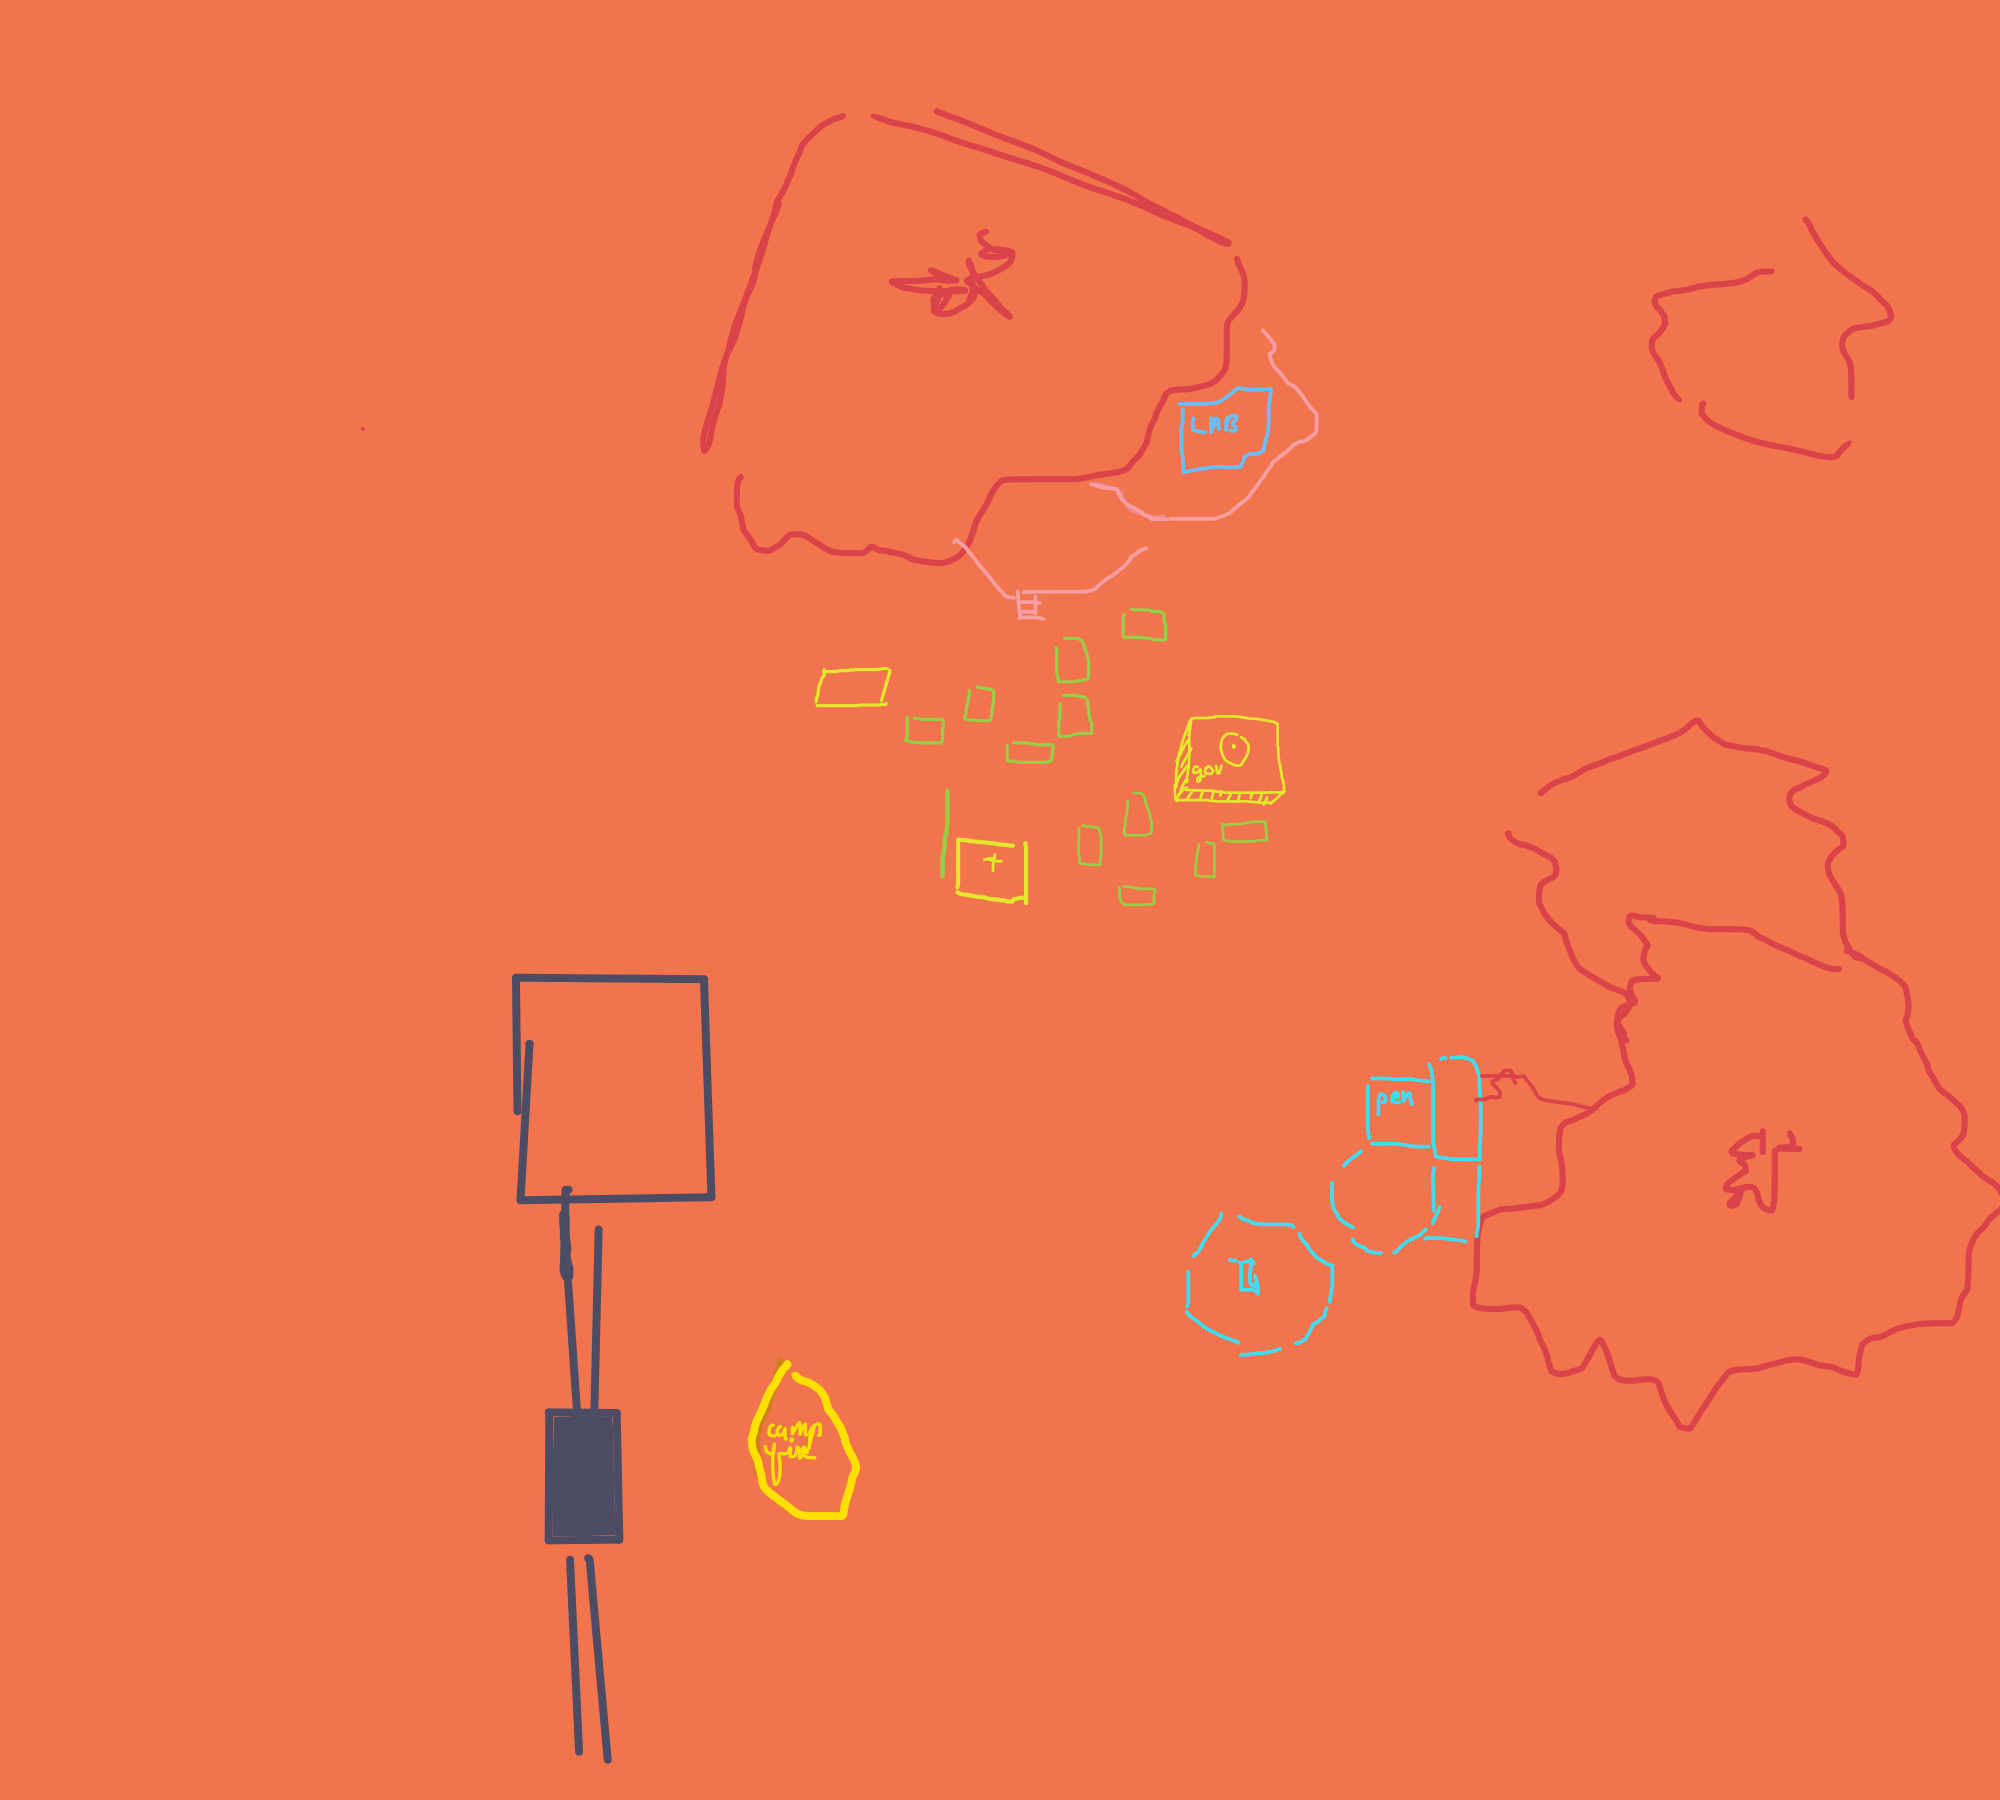
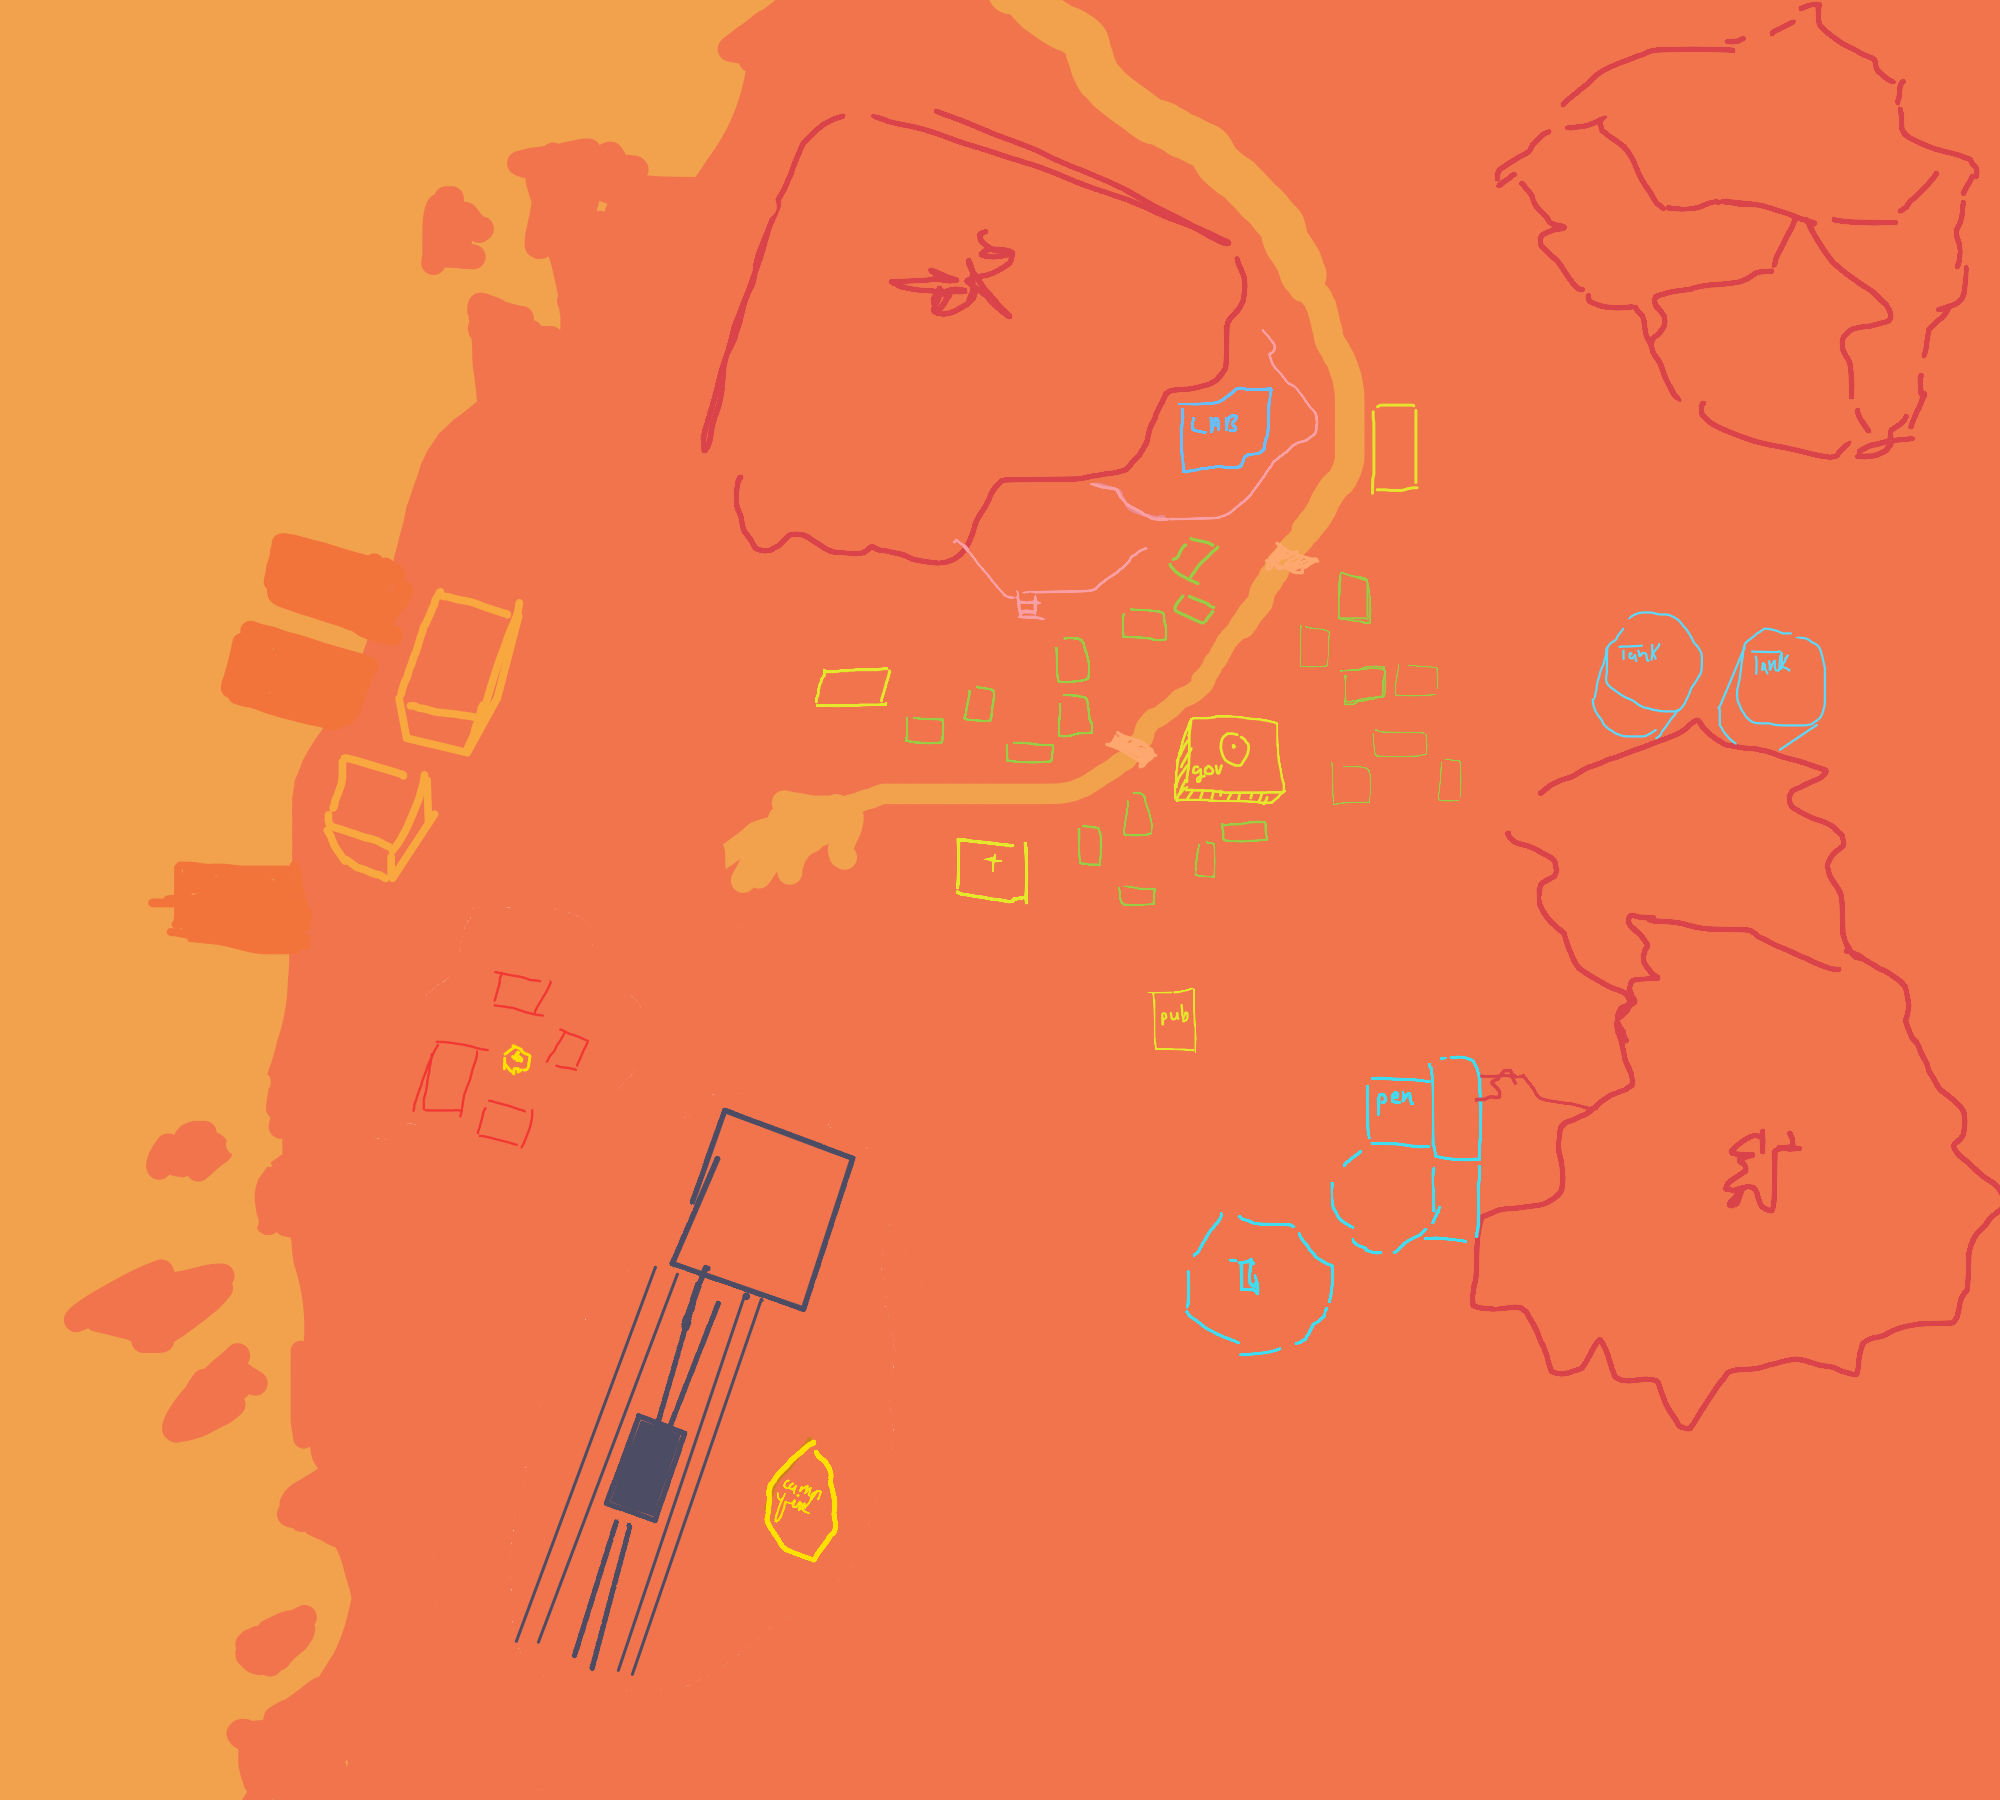
Some changes

diff --git a/Games/Nubiota.md b/Games/Nubiota.md
@@ -15,10 +15,57 @@ But a day in, you realize that a disease is spreading, this disease is
 characterized by the blackening of the veins and degenerates your brain
 to think abnormally and behave hostile and mindless.
 
+East of the town is a coast line, and there are fishing docks and sheds.
+There is a hospital, a pub, a government building for printing money and 
+deciding laws and policies between the two governers of the town, a farming
+area used for farming sheep, cattle and other animals, two rainwater tanks,
+and a lab.
+The town is situated between a mountain range, with three prominent
+mountains, one is north-west, one is south-west, and the last is north-east.
+There is a river flowing through the town that comes from the north and
+meanders to the west stopping half-way before it reaches the coast.
+There is also some ruins south of the docks, which have been turned into 
+homes and a base of operations for a gang.
+And there is a train-station to the south-west, from which the town sends
+meat, animal products and other goods for things that the town can't make,
+like concrete, wood, and such. But the trains have stopped and crashed.
+Guards roam the town to stop crime, they work under the 1st governer, 
+and get paid for it.
+Two architects live in the town, they're employed by a family, who are an 
+authority on the architecture and construction. The architects have very
+opposing views.
 
+## Day 1
 
-A gang tries to take control and tries to get in power through the mass
-panic and confusion caused by the disease.
+You arrive in the town at the train station. There's a bonfire close to 
+you, A couple kids surround the bonfire. Dialogue vaguely follows this:
+
+Kid 1: "I didn't expect anyone to come out that train alive, after that
+crash. Much less a kid. Listen... Did you come alone?"
+
+"Yes"
+
+Kid 1: "That's weird, never met anyone like you. Did you come here by 
+accident?"
+
+"Yes"
+
+Kid 1: "So what's the plan? How are you gonna get back? The trains broke
+down."
+
+"I don't know. I'll survive I guess."
+
+Kid 2: "Try your best to survive in the town. Stick with us if you'd like,
+we have a camp, south of the docks. Here, take some food and water."
+
+"Thanks."
+
+You head into the town and spend the day mostly exploring and meeting 
+the people of the town. You get a few quests and make some allies.
+
+[Insert more detail about day 1 and how it unfolds here]
+
+[Insert more days here]
 
 # Gameplay
 
@@ -39,11 +86,11 @@ Quests aren't generic like: "Collect 10 chicken feathers and I will give
 you a reward.". They're more like: "I need you to investigate this band 
 of criminals for information about their leader" and then you get into a 
 goose chase for the leader and find out the criminals lied to you who the 
-leader was and they've alreeady wreaking havoc, and then you go to the 
+leader was and they've already wreaking havoc, and then you go to the 
 guy who gave you the quest and he orders you to kill the criminals and
 gives you money after you dispose of them.
 
 You also have a diary in which quests are written down. There will be no 
 markers on the map. The map will have buildings and places marked down 
-withtheir names and the quests will tell you which place to go to, but 
+with their names and the quests will tell you which place to go to, but 
 won't make it super obvious on the map.
